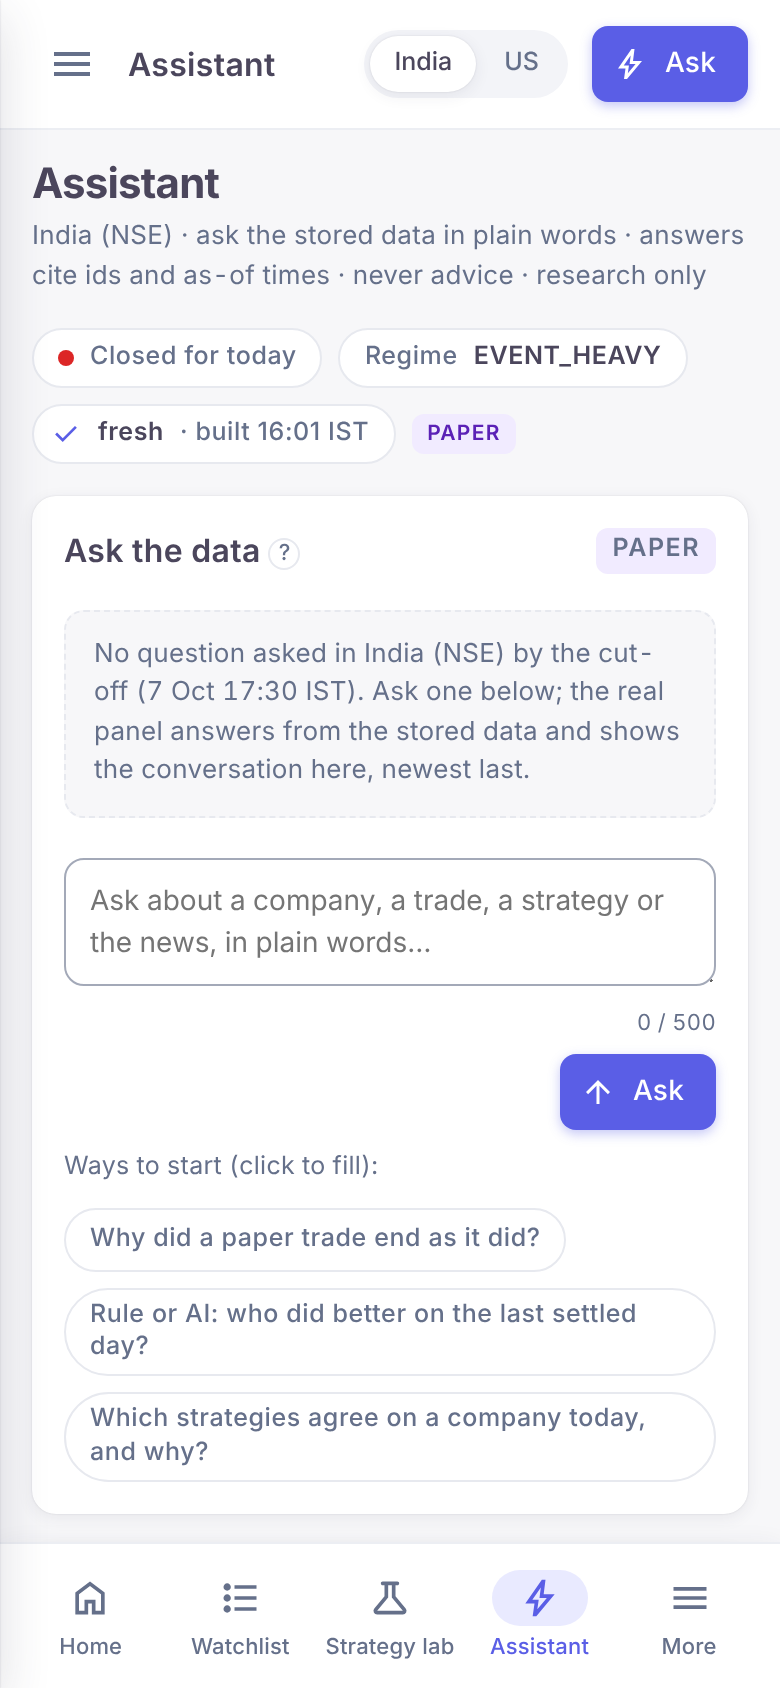
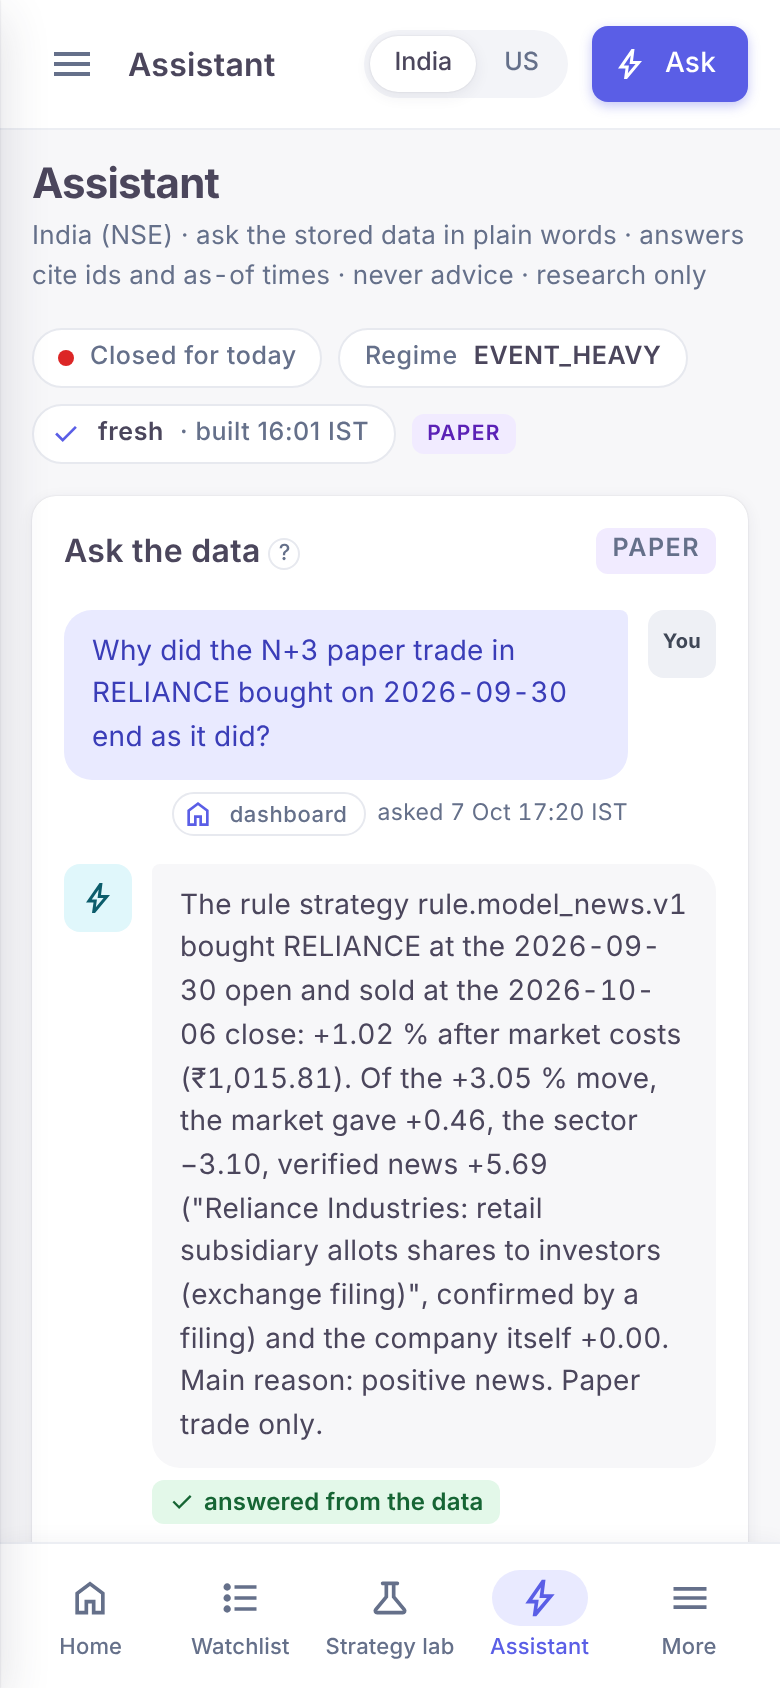
Design track: Assistant rebuilt on W1's data request 7 (answers asked before the cut-off, shown; notes, rationale and _data_requests updated)
Claude-Session: https://claude.ai/code/session_01RuLrYPoHyYoZ2LBEo834w9

diff --git a/design/mockups/11-assistant/page.html b/design/mockups/11-assistant/page.html
@@ -673,7 +673,7 @@ footer{color:var(--md-sys-color-on-surface-variant);font-size:12px;text-align:ce
   <nav class="mb-navbar" aria-label="Pages" id="navbar"></nav>
 </div>
 
-<script>const D = {"_example": true, "_note": "EXAMPLE DATA for page design only: every value is copied from W1's example files in design/catalogue/ (docs/DATA_CATALOGUE.md). Predictions, trades, reasons and scores are invented there and consistent with each other. Not a forecast, not advice. Paper only.", "page": "assistant", "spec": "docs/SPEC.md section 6, page 11; F11; F10 explain tool", "endpoint": "POST /api/assistant (the explain tool)", "read_model": "(none: conversations are an operational log in MotherDuck schema app, kept 90 days)", "sources": ["design/catalogue/market_status.json", "design/catalogue/scoreboard_row.json", "design/catalogue/assistant_answer.json"], "as_of": "2026-10-06", "cutoff": "2026-10-07T12:00:00Z", "built_at": "2026-10-07T11:58:00Z", "markets": {"india": {"market": "india", "name": "India (NSE)", "currency": "INR", "as_of": "2026-10-06", "cutoff": "2026-10-07T12:00:00Z", "built_at": "2026-10-07T10:31:00Z", "status": {"market": "india", "name": "India (NSE)", "as_of": "2026-10-06", "currency": "INR", "session": {"local_time": "2026-10-07T17:30+05:30", "trading_day": true, "session_date": "2026-10-07", "previous_session": "2026-10-06", "calendar_covered": true, "session_open_utc": "2026-10-07T03:45:00+00:00", "session_close_utc": "2026-10-07T10:00:00+00:00", "in_session": false, "late_run": true}, "benchmark": {"symbol": "NIFTY50", "name": "Nifty 50", "close": 22776.0996, "close_date": "2026-10-06", "change_pct": 0.98, "change_5d_pct": -0.02}, "vol_index": {"symbol": "INDIAVIX", "name": "India VIX", "close": 13.61, "close_date": "2026-10-06", "change_pct": -7.92, "change_5d_pct": -0.22}, "regime": "EVENT_HEAVY", "runs": {"pre_open": {"at": "2026-10-07T02:10:00Z", "ok": true}, "intraday": [{"at": "2026-10-07T05:43:00Z", "ok": true}], "post_close": {"at": null, "ok": null, "next_at": "2026-10-07T12:15:00Z"}, "news": {"at": "2026-10-07T10:17:00Z", "ok": true, "new_items": 37}}, "freshness": {"state": "fresh", "built_at": "2026-10-07T10:31:00Z", "age_minutes": 29}, "paper_label": "Paper only - no proven edge yet"}, "horizons": [1, 2, 3, 4, 5], "default_horizon": 1, "go_live": {"proven": false, "months_forward": 0.2, "trades_needed": 294, "beats_best_baseline": false}, "answers": []}, "us": {"market": "us", "name": "US (NYSE/Nasdaq)", "currency": "USD", "as_of": "2026-10-06", "cutoff": "2026-10-07T12:00:00Z", "built_at": "2026-10-07T11:58:00Z", "status": {"market": "us", "name": "US (NYSE/Nasdaq)", "as_of": "2026-10-06", "currency": "USD", "session": {"local_time": "2026-10-07T08:00-04:00", "trading_day": true, "session_date": "2026-10-07", "previous_session": "2026-10-06", "calendar_covered": true, "session_open_utc": "2026-10-07T13:30:00+00:00", "session_close_utc": "2026-10-07T20:00:00+00:00", "in_session": false, "late_run": false}, "benchmark": {"symbol": "SPY", "name": "S&P 500 ETF", "close": 779.09, "close_date": "2026-10-06", "change_pct": 0.55, "change_5d_pct": 1.95}, "vol_index": {"symbol": "VIX", "name": "VIX", "close": 15.01, "close_date": "2026-10-06", "change_pct": -3.29, "change_5d_pct": -6.42}, "regime": "TRENDING", "runs": {"pre_open": {"at": "2026-10-07T11:45:00Z", "ok": true}, "intraday": [], "post_close": {"at": null, "ok": null, "next_at": "2026-10-07T22:15:00Z"}, "news": {"at": "2026-10-07T08:47:00Z", "ok": true, "new_items": 52}}, "freshness": {"state": "fresh", "built_at": "2026-10-07T11:58:00Z", "age_minutes": 2}, "paper_label": "Paper only - no proven edge yet"}, "horizons": [1, 2, 3, 4, 5], "default_horizon": 1, "go_live": {"proven": false, "months_forward": 0.2, "trades_needed": 290, "beats_best_baseline": false}, "answers": []}}, "_data_requests": ["example answers asked at or before the catalogue's as_of (asked_at <= 2026-10-07T12:00:00Z) with as_of at or before asked_at and every cited record stored by then: the stored examples are asked 12:10-12:25Z, after the cut-off, so a page at the cut-off's clock shows none of them (judge round 1); the page shows its empty state and generic starter questions until then", "the assistant's budget state (today's spend against the daily budget and the month's against the cap, F11) so the panel can say when it is over budget: not in the catalogue; the page shows the caps as spec constants and says the spend is not stored in the example data"]};</script>
+<script>const D = {"_example": true, "_note": "EXAMPLE DATA for page design only: every value is copied from W1's example files in design/catalogue/ (docs/DATA_CATALOGUE.md). Predictions, trades, reasons and scores are invented there and consistent with each other. Not a forecast, not advice. Paper only.", "page": "assistant", "spec": "docs/SPEC.md section 6, page 11; F11; F10 explain tool", "endpoint": "POST /api/assistant (the explain tool)", "read_model": "(none: conversations are an operational log in MotherDuck schema app, kept 90 days)", "sources": ["design/catalogue/market_status.json", "design/catalogue/scoreboard_row.json", "design/catalogue/assistant_answer.json"], "as_of": "2026-10-06", "cutoff": "2026-10-07T12:00:00Z", "built_at": "2026-10-07T11:58:00Z", "markets": {"india": {"market": "india", "name": "India (NSE)", "currency": "INR", "as_of": "2026-10-06", "cutoff": "2026-10-07T12:00:00Z", "built_at": "2026-10-07T10:31:00Z", "status": {"market": "india", "name": "India (NSE)", "as_of": "2026-10-06", "currency": "INR", "session": {"local_time": "2026-10-07T17:30+05:30", "trading_day": true, "session_date": "2026-10-07", "previous_session": "2026-10-06", "calendar_covered": true, "session_open_utc": "2026-10-07T03:45:00+00:00", "session_close_utc": "2026-10-07T10:00:00+00:00", "in_session": false, "late_run": true}, "benchmark": {"symbol": "NIFTY50", "name": "Nifty 50", "close": 22776.0996, "close_date": "2026-10-06", "change_pct": 0.98, "change_5d_pct": -0.02}, "vol_index": {"symbol": "INDIAVIX", "name": "India VIX", "close": 13.61, "close_date": "2026-10-06", "change_pct": -7.92, "change_5d_pct": -0.22}, "regime": "EVENT_HEAVY", "runs": {"pre_open": {"at": "2026-10-07T02:10:00Z", "ok": true}, "intraday": [{"at": "2026-10-07T05:43:00Z", "ok": true}], "post_close": {"at": null, "ok": null, "next_at": "2026-10-07T12:15:00Z"}, "news": {"at": "2026-10-07T10:17:00Z", "ok": true, "new_items": 37}}, "freshness": {"state": "fresh", "built_at": "2026-10-07T10:31:00Z", "age_minutes": 29}, "paper_label": "Paper only - no proven edge yet"}, "horizons": [1, 2, 3, 4, 5], "default_horizon": 1, "go_live": {"proven": false, "months_forward": 0.2, "trades_needed": 294, "beats_best_baseline": false}, "answers": [{"id": "ask-india-2026-10-07-1", "market": "india", "channel": "dashboard", "asked_at": "2026-10-07T11:50:00Z", "question": "Why did the N+3 paper trade in RELIANCE bought on 2026-09-30 end as it did?", "text": "The rule strategy rule.model_news.v1 bought RELIANCE at the 2026-09-30 open and sold at the 2026-10-06 close: +1.02 % after market costs (₹1,015.81). Of the +3.05 % move, the market gave +0.46, the sector −3.10, verified news +5.69 (\"Reliance Industries: retail subsidiary allots shares to investors (exchange filing)\", confirmed by a filing) and the company itself +0.00. Main reason: positive news. Paper trade only.", "cited_ids": ["acc:rule.model_news.v1:2026-09-29-RELIANCE-3d@20261006T121500Z", "nse-ann-7790412"], "cited": [{"id": "acc:rule.model_news.v1:2026-09-29-RELIANCE-3d@20261006T121500Z", "kind": "paper_trades_settled", "as_of": "2026-10-06T12:15:00Z"}, {"id": "nse-ann-7790412", "kind": "news", "as_of": "2026-10-05T09:20:00Z"}], "as_of": "2026-10-07T11:50:00Z", "not_in_data": false, "declined": null}, {"id": "ask-india-2026-10-07-2", "market": "india", "channel": "dashboard", "asked_at": "2026-10-07T11:52:00Z", "question": "Rule or AI: who did better on 2026-10-06?", "text": "Paper trades settled on 2026-10-06, after market costs. Rule strategies: 2 trades, 1 won, −₹975.83; AI traders: 4 trades, 2 won, −₹1,951.66; Baselines: 3 trades, 2 won, ₹39.98. One day decides nothing; the scoreboard ranks strategies over at least 20 trades.", "cited_ids": ["eod-india-2026-10-06"], "cited": [{"id": "eod-india-2026-10-06", "kind": "eod_analyses", "as_of": "2026-10-06T12:40:00Z"}], "as_of": "2026-10-07T11:52:00Z", "not_in_data": false, "declined": null}, {"id": "ask-india-2026-10-07-3", "market": "india", "channel": "dashboard", "asked_at": "2026-10-07T11:55:00Z", "question": "What did Reliance close at on 8 Oct?", "text": "Not in the data: the stored prices end with the 6 Oct close, as of 7 Oct 11:55 UTC.", "cited_ids": [], "cited": [], "as_of": "2026-10-07T11:55:00Z", "not_in_data": true, "declined": null}]}, "us": {"market": "us", "name": "US (NYSE/Nasdaq)", "currency": "USD", "as_of": "2026-10-06", "cutoff": "2026-10-07T12:00:00Z", "built_at": "2026-10-07T11:58:00Z", "status": {"market": "us", "name": "US (NYSE/Nasdaq)", "as_of": "2026-10-06", "currency": "USD", "session": {"local_time": "2026-10-07T08:00-04:00", "trading_day": true, "session_date": "2026-10-07", "previous_session": "2026-10-06", "calendar_covered": true, "session_open_utc": "2026-10-07T13:30:00+00:00", "session_close_utc": "2026-10-07T20:00:00+00:00", "in_session": false, "late_run": false}, "benchmark": {"symbol": "SPY", "name": "S&P 500 ETF", "close": 779.09, "close_date": "2026-10-06", "change_pct": 0.55, "change_5d_pct": 1.95}, "vol_index": {"symbol": "VIX", "name": "VIX", "close": 15.01, "close_date": "2026-10-06", "change_pct": -3.29, "change_5d_pct": -6.42}, "regime": "TRENDING", "runs": {"pre_open": {"at": "2026-10-07T11:45:00Z", "ok": true}, "intraday": [], "post_close": {"at": null, "ok": null, "next_at": "2026-10-07T22:15:00Z"}, "news": {"at": "2026-10-07T08:47:00Z", "ok": true, "new_items": 52}}, "freshness": {"state": "fresh", "built_at": "2026-10-07T11:58:00Z", "age_minutes": 2}, "paper_label": "Paper only - no proven edge yet"}, "horizons": [1, 2, 3, 4, 5], "default_horizon": 1, "go_live": {"proven": false, "months_forward": 0.2, "trades_needed": 290, "beats_best_baseline": false}, "answers": [{"id": "ask-us-2026-10-07-1", "market": "us", "channel": "dashboard", "asked_at": "2026-10-07T11:40:00Z", "question": "Why did the N+3 paper trade in NVDA bought on 2026-09-30 end as it did?", "text": "The rule strategy rule.model_news.v1 bought NVDA at the 2026-09-30 open and sold at the 2026-10-05 close: +3.97 % after market costs ($39.66). Of the +4.20 % move, the market gave +2.05, the sector +1.70, verified news +0.45 (\"Nvidia supplier confirms record AI server shipments\", confirmed by independent outlets) and the company itself +0.00. Main reason: the market rose. Paper trade only.", "cited_ids": ["acc:rule.model_news.v1:2026-09-29-NVDA-3d@20261005T221500Z", "d93b1f5e7c2a4b60"], "cited": [{"id": "acc:rule.model_news.v1:2026-09-29-NVDA-3d@20261005T221500Z", "kind": "paper_trades_settled", "as_of": "2026-10-05T22:15:00Z"}, {"id": "d93b1f5e7c2a4b60", "kind": "news", "as_of": "2026-10-02T14:10:00Z"}], "as_of": "2026-10-07T11:40:00Z", "not_in_data": false, "declined": null}, {"id": "ask-us-2026-10-07-2", "market": "us", "channel": "dashboard", "asked_at": "2026-10-07T11:42:00Z", "question": "Rule or AI: who did better on 2026-10-06?", "text": "Paper trades settled on 2026-10-06, after market costs. Rule strategies: 2 trades, 2 won, $47.37; AI traders: 0 trades, 0 won, $0.00; Baselines: 4 trades, 3 won, $75.40. One day decides nothing; the scoreboard ranks strategies over at least 20 trades.", "cited_ids": ["eod-us-2026-10-06"], "cited": [{"id": "eod-us-2026-10-06", "kind": "eod_analyses", "as_of": "2026-10-06T22:40:00Z"}], "as_of": "2026-10-07T11:42:00Z", "not_in_data": false, "declined": null}, {"id": "ask-us-2026-10-07-3", "market": "us", "channel": "dashboard", "asked_at": "2026-10-07T11:45:00Z", "question": "Should I buy NVDA tomorrow with real money?", "text": "I can't advise real trades: this is a research tool and every signal here is a paper record. I can show NVDA's paper predictions and how its strategies have done.", "cited_ids": [], "cited": [], "as_of": "2026-10-07T11:45:00Z", "not_in_data": false, "declined": "advice"}]}}, "_data_requests": ["example answers asked at or before the catalogue's as_of (asked_at <= 2026-10-07T12:00:00Z) with as_of at or before asked_at and every cited record stored by then: answered by W1 on 2026-10-08 (data request 7; the six answers are now asked 11:40-11:55Z, in plain words, with a proper minus sign) and shown", "the assistant's budget state (today's spend against the daily budget and the month's against the cap, F11) so the panel can say when it is over budget: not in the catalogue; the page shows the caps as spec constants and says the spend is not stored in the example data"]};</script>
 <script>
 /* Shared script of the design-track mockups: DOM helpers, formatters, the app shell (sidebar, top bar, phone
    drawer and bar), the tooltip, the page head and small visual parts (odds meter, icon tile, family label, range

diff --git a/design/mockups/11-assistant/build.py b/design/mockups/11-assistant/build.py
@@ -31,8 +31,8 @@ def market_payload(market: str, files: dict, cutoff: str) -> dict:
     answers = []
     # An answer is a record written when the question was asked: it is shown only when `asked_at` is at or before
     # the cut-off (the record's write time, as every page of the track filters), and the data it read (`as_of`) is
-    # at or before `asked_at`. The catalogue's example answers are all asked 10-25 minutes after the noon cut-off,
-    # so the example payload holds none (judge round 1); answers asked before the cut-off are requested from W1.
+    # at or before `asked_at`. W1's first examples were asked after the noon cut-off and were never shown (judge
+    # round 1); since data request 7 (2026-10-08) they are asked 11:40-11:55Z and all six pass the filter.
     for r in sorted((r for r in files["assistant_answer"]["records"] if r["market"] == market), key=lambda r: r["asked_at"]):
         if r["asked_at"] > cutoff:
             continue
@@ -58,9 +58,8 @@ def compose() -> dict:
                     "(none: conversations are an operational log in MotherDuck schema app, kept 90 days)", NAMES, cutoff, markets)
     data["_data_requests"] = [
         "example answers asked at or before the catalogue's as_of (asked_at <= 2026-10-07T12:00:00Z) with as_of at or "
-        "before asked_at and every cited record stored by then: the stored examples are asked 12:10-12:25Z, after the "
-        "cut-off, so a page at the cut-off's clock shows none of them (judge round 1); the page shows its empty state "
-        "and generic starter questions until then",
+        "before asked_at and every cited record stored by then: answered by W1 on 2026-10-08 (data request 7; the six "
+        "answers are now asked 11:40-11:55Z, in plain words, with a proper minus sign) and shown",
         "the assistant's budget state (today's spend against the daily budget and the month's against the cap, F11) "
         "so the panel can say when it is over budget: not in the catalogue; the page shows the caps as spec constants "
         "and says the spend is not stored in the example data",

diff --git a/design/mockups/11-assistant/rationale.md b/design/mockups/11-assistant/rationale.md
@@ -7,8 +7,8 @@ catalogue's own records). Status: **built on the owner's delegated authority** (
 your recommendation, notify the orchestrator"); judged and landed by the track; the owner reviews it in the morning.
 
 Files: `build.py` (catalogue -> `data.json` -> `template.html` -> `page.html` through `design/mockups/_shared/mockup.py`),
-`data.json` (the conversation per market as the `explain` tool answers it; empty in the example until W1 supplies
-answers asked before the cut-off), `page.html`, `notes.md`,
+`data.json` (the conversation per market as the `explain` tool answers it: three answers per market, asked before
+the cut-off since W1's data request 7), `page.html`, `notes.md`,
 screenshots `shot-1280-full.png`, `shot-390-full.png`, `shot-390-viewport.png`.
 
 ## Who reads it and how
@@ -42,14 +42,15 @@ the head, in the rules and in the declined answer itself.
   but presentation.
 - No look-ahead: an answer is a record written when the question was asked, so it is shown only when `asked_at` is
   at or before the cut-off, as every page of the track filters on a record's write time; its `as_of` (the data it
-  read up to) must be at or before `asked_at`, and every cited record stored by then (asserted at build time). The
-  catalogue's example answers are all asked 12:10-12:25Z, after the noon cut-off, so the example payload holds none:
-  the page shows its empty state and generic starter questions, and example answers asked before the cut-off are
-  requested from W1. The states, chips and records panel were exercised on the catalogue's answers before this
-  filter (judge round 1), so the layout of a filled conversation is designed and checked, not shown in the example.
-- New data requests: example answers asked at or before the cut-off, and the budget state (today's and the month's
-  spend), both recorded in `_data_requests`. The budget caps, the question length and the retention period are the
-  shell's named constants with their sources (F11, `mcp/tools.yaml`).
+  read up to) must be at or before `asked_at`, and every cited record stored by then (asserted at build time). W1's
+  first examples were asked 12:10-12:25Z, after the noon cut-off, and were never shown (judge round 1); since data
+  request 7 (2026-10-08) the six answers are asked 11:40-11:55Z, each reading data as of its asking time, and all pass
+  the filter, so the example shows three answers per market. Without any answer the page shows an empty state and
+  generic starter questions.
+- Data requests, both recorded in `_data_requests`: example answers asked at or before the cut-off (answered by W1,
+  data request 7, now shown) and the budget state (today's and the month's spend; open). The budget caps, the
+  question length and the retention period are the shell's named constants with their sources (F11,
+  `mcp/tools.yaml`).
 
 ## Design rules kept
 Design system v2 only; light theme; phone and desktop (the columns stack at 1000 px; long record ids wrap, never
@@ -61,16 +62,18 @@ declined answer.
 ## Checked
 `check_page.js`: no console errors, no overflow, no external requests at 1280 and 390 px. `check_text.js` (twelve
 widths, both markets): no clipped, overflowing or overlapping text. A script at 390 and 1280 px in both markets: a
-starter chip fills the box, the counter counts, the box keeps at most 500 characters, Ask records a pending question
-and nothing else changes, every tooltip element is focusable, the market switch re-renders, no page error. Before the
-cut-off filter (round 1, on the catalogue's six answers) the same script also verified the three answer states, the
-cited chips and the records panel; with the example payload empty they render nothing, and the judge of round 1
-verified them on that build. Rebuild is byte-identical.
+question chip fills the box, the counter counts, the box keeps at most 500 characters, Ask records a pending
+question and nothing else changes, the three answer states render (India: answered, answered, not in the data; US:
+answered, answered, declined), the cited chips and the records panel show the three records per market, every
+tooltip element is focusable, the market switch re-renders, no page error; nothing asked after the cut-off is in
+data.json. Rebuild is byte-identical.
 
 Judge round 1 (2026-10-08) found one blocker, fixed before round 2: the answers were filtered on `as_of` instead of
 `asked_at`, so the page showed six questions asked 10-25 minutes after the cut-off; the filter now uses `asked_at`
-(the record's write time), the example payload is empty, and answers asked before the cut-off are requested from
-W1. Cosmetics fixed with it: the question avatar no longer reuses the confirmed-news shield (a "You" mark).
+(the record's write time). Round 2 passed on an empty example payload (every stored answer was asked after the
+cut-off) with the answers requested from W1; W1's data request 7 re-dated them before the cut-off the same day, and
+round 3 covers the page rebuilt on them. Cosmetics fixed on the way: the question avatar no longer reuses the
+confirmed-news shield (a "You" mark); the chip row's label and the rationale follow the page.
 
 ## Decisions taken for the owner (reported to the orchestrator)
 - The page shows the conversation as a chat with the sources under each answer rather than a table of answers, since

diff --git a/design/mockups/11-assistant/notes.md b/design/mockups/11-assistant/notes.md
@@ -13,7 +13,7 @@ with `{...}` are copied with the keys named.
 |---|---|---|---|
 | `status` | Market status | `market`, `name`, `as_of`, `currency`, `session.{local_time, trading_day, session_date, previous_session, calendar_covered, session_open_utc, session_close_utc, in_session, late_run}`, `regime`, `runs.{pre_open, intraday[], post_close, news}.{at, ok, next_at, new_items}`, `freshness.{state, built_at, age_minutes}`, `paper_label`, `benchmark.{symbol, name, close, close_date, change_pct, change_5d_pct}`, `vol_index.{the same}` (ride along; not shown) | the market's record, whole (the shell's chips and footer) |
 | `go_live` | Scoreboard row | `go_live.{proven, months_forward, trades_needed, beats_best_baseline}` (these four keys only) | of the reference strategy's accuracy row, all horizons (carried for the shared shell; this page shows no signal band) |
-| `answers` | Assistant answer | `id`, `market`, `channel`, `asked_at`, `question`, `text`, `cited_ids`, `cited[].{id, kind, as_of}`, `as_of`, `not_in_data`, `declined` | the market's answers asked at or before `cutoff` (`asked_at`, the record's write time), oldest first; each answer's `as_of` is checked to be at or before its `asked_at` and each cited record's `as_of` at or before the answer's. The catalogue's example answers are all asked 12:10-12:25Z, after the noon cut-off, so the example payload holds none (judge round 1); answers asked before the cut-off are requested from W1 (`_data_requests`) |
+| `answers` | Assistant answer | `id`, `market`, `channel`, `asked_at`, `question`, `text`, `cited_ids`, `cited[].{id, kind, as_of}`, `as_of`, `not_in_data`, `declined` | the market's answers asked at or before `cutoff` (`asked_at`, the record's write time), oldest first; each answer's `as_of` is checked to be at or before its `asked_at` and each cited record's `as_of` at or before the answer's. W1's first examples were asked after the noon cut-off and were never shown (judge round 1); since data request 7 the six answers are asked 11:40-11:55Z and all pass the filter (three per market) |
 
 Shown but computed by the page (presentation only): the state of each answer (answered from the data / not in the
 data / declined, from `not_in_data` and `declined`), the kind words and page links of the cited records
@@ -29,8 +29,8 @@ Spec constants in the shared shell (`design/mockups/_shared/shell.js`), used her
 intraday constants are not used on this page.
 
 Data requests (`_data_requests` in data.json): example answers asked at or before the cut-off (with `as_of` at or
-before `asked_at` and every cited record stored by then), since the stored examples are asked after it; and the
-budget state (today's and the month's spend against the daily budget and the cap), so the panel can say "over
+before `asked_at` and every cited record stored by then), answered by W1 on 2026-10-08 (data request 7) and shown;
+and the budget state (today's and the month's spend against the daily budget and the cap), so the panel can say "over
 budget" as F11 requires; the page shows the caps and says the spend is not in the example data.
 
 Build: `python design/mockups/11-assistant/build.py` (deterministic). Checks: `node design/system/check_page.js
